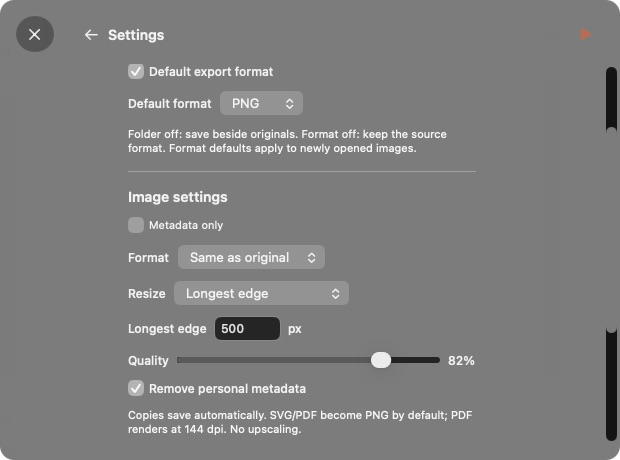
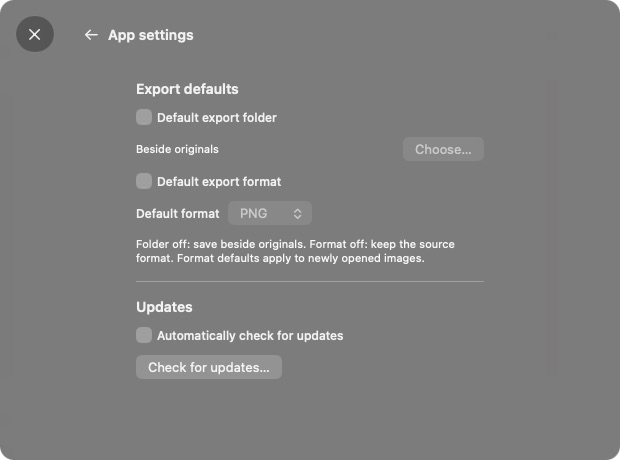
Separate app preferences from image settings popover

diff --git a/Sources/Dice/Views.swift b/Sources/Dice/Views.swift
@@ -9,6 +9,7 @@ struct DiceView: View {
     @ObservedObject var model: DiceModel
     let close: () -> Void
     var checkUpdates: () -> Void = {}
+    @State private var imageSettingsPresented = false
     @State private var metadata = false
     @State private var batch = false
     @State private var batchSearch = ""
@@ -33,8 +34,8 @@ struct DiceView: View {
     var body: some View {
         ZStack(alignment: .topTrailing) {
             if model.settingsPresented {
-                ScrollView { optionsPanel.frame(maxWidth: .infinity) }
-                    .padding(.top, 64).padding(.bottom, model.items.isEmpty ? 16 : 58)
+                ScrollView { appSettingsPanel.frame(maxWidth: .infinity) }
+                    .padding(.top, 64).padding(.bottom, 16)
             } else if batch {
                 BatchPane(model: model, query: $batchSearch) { id in model.selected = id; batch = false }
                     .padding(.top, 64).padding(.bottom, model.items.isEmpty ? 16 : 58)
@@ -57,7 +58,7 @@ struct DiceView: View {
                 }.frame(maxWidth: .infinity, maxHeight: .infinity).transition(.opacity)
             }
             toolbar.padding(DiceStyle.inset).padding(.leading, metadata || batch || model.settingsPresented ? 56 : 0)
-            if !model.items.isEmpty {
+            if !model.items.isEmpty && !model.settingsPresented {
                 VStack { Spacer(); HStack(spacing: 12) { footerSummary; Spacer(minLength: 12); pager }.padding(DiceStyle.inset) }
             }
         }
@@ -93,6 +94,7 @@ struct DiceView: View {
         }
         .animation(reduceMotion ? nil : .easeOut(duration: 0.2), value: targeted)
         .tint(accent)
+        .onChange(of: model.settingsPresented) { if model.settingsPresented { imageSettingsPresented = false } }
         .task(id: "\(model.selected?.uuidString ?? "")|\(previewKey ?? "")") { await loadPreview() }
         .alert("Dice couldn’t finish", isPresented: Binding(get: { model.alert != nil }, set: { if !$0 { model.alert = nil } })) { Button("OK") { model.alert = nil } } message: { Text(model.alert ?? "") }
     }
@@ -102,7 +104,7 @@ struct DiceView: View {
         HStack(spacing: 2) {
             if model.settingsPresented {
                 icon("arrow.left", "Back to image") { model.settingsPresented = false; metadata = false; batch = false }
-                Text("Settings").font(DiceStyle.heading)
+                Text("App settings").font(DiceStyle.heading)
                 Spacer()
             } else if batch {
                 icon("arrow.left", "Back to image") { batch = false }
@@ -118,9 +120,12 @@ struct DiceView: View {
                 icon("plus", "Add images") { model.chooseFiles() }.disabled(model.busy || model.importing)
                 if model.busy || model.importing { ProgressView().controlSize(.mini).padding(.horizontal, 8) }
                 icon("info", "View metadata") { flip() }.disabled(currentInfo == nil || model.items.isEmpty)
-                icon("slider.horizontal.3", "Conversion settings") { model.settingsPresented.toggle() }
+                icon("slider.horizontal.3", "Image settings") { imageSettingsPresented.toggle() }
+                    .popover(isPresented: $imageSettingsPresented, arrowEdge: .top) { imageSettingsPanel }
             }
-            icon("play.fill", "Start with current settings") { model.settingsPresented = false; model.process() }.foregroundStyle(accent).disabled(model.busy || model.importing || model.items.isEmpty)
+            if !model.settingsPresented {
+            icon("play.fill", "Start with current settings") { imageSettingsPresented = false; model.process() }.foregroundStyle(accent).disabled(model.busy || model.importing || model.items.isEmpty)
+            }
         }
         .buttonStyle(.plain)
         .padding(.horizontal, 4).padding(.vertical, 3)
@@ -154,7 +159,7 @@ struct DiceView: View {
         Button(action: action) { Image(systemName: symbol).font(DiceStyle.control).frame(width: DiceStyle.controlSize,height: DiceStyle.controlSize).contentShape(Rectangle()) }.help(label).accessibilityLabel(label)
     }
     func flip() { withAnimation(reduceMotion ? nil : .easeInOut(duration: 0.18)) { metadata.toggle() } }
-    var optionsPanel: some View {
+    var appSettingsPanel: some View {
         VStack(alignment: .leading, spacing: 12) {
             Text("Export defaults").font(DiceStyle.heading)
             Toggle("Default export folder", isOn: $model.preferences.useExportFolder)
@@ -169,6 +174,13 @@ struct DiceView: View {
             }.disabled(!model.preferences.useExportFormat)
             Text("Folder off: save beside originals. Format off: keep the source format. Format defaults apply to newly opened images.").font(DiceStyle.caption).foregroundStyle(.secondary).fixedSize(horizontal: false, vertical: true)
             Divider().padding(.vertical, 4)
+            Text("Updates").font(DiceStyle.heading)
+            Toggle("Automatically check for updates", isOn: $model.preferences.automaticallyCheckUpdates)
+            Button("Check for updates…") { checkUpdates() }
+        }.font(DiceStyle.label).padding(DiceStyle.inset).frame(width: 380).tint(accent)
+    }
+    var imageSettingsPanel: some View {
+        VStack(alignment: .leading, spacing: 12) {
             Text("Image settings").font(DiceStyle.heading)
             Toggle("Metadata only", isOn: $model.options.metadataOnly).font(DiceStyle.caption)
             if !model.options.metadataOnly {
@@ -183,18 +195,15 @@ struct DiceView: View {
             Toggle("Remove personal metadata", isOn: $model.options.stripMetadata).disabled(model.options.metadataOnly)
             Text(model.options.metadataOnly ? "Pixels stay unchanged. Colour and orientation are retained." : "Copies save automatically. SVG/PDF become PNG by default; PDF renders at 144 dpi. No upscaling.").font(DiceStyle.caption).foregroundStyle(.secondary).fixedSize(horizontal: false, vertical: true)
             HStack {
-                Button("Resize all") { model.settingsPresented = false; model.process(resizeOnly: true) }
+                Button("Resize all") { imageSettingsPresented = false; model.process(resizeOnly: true) }
                     .disabled(model.busy || model.importing || model.items.isEmpty || model.options.resize == .original)
                     .help("Change resolution only; preserve metadata and skip images already within the target size")
                 Spacer()
-                Button("Start") { model.settingsPresented = false; model.process() }.buttonStyle(.borderedProminent).disabled(model.busy || model.importing || model.items.isEmpty)
+                Button("Start") { imageSettingsPresented = false; model.process() }.buttonStyle(.borderedProminent).disabled(model.busy || model.importing || model.items.isEmpty)
             }
             Text("Resize all keeps the source format and metadata, skipping smaller images. Vector/RAW inputs become PNG copies.").font(DiceStyle.caption).foregroundStyle(.secondary).fixedSize(horizontal: false, vertical: true)
-            Divider().padding(.vertical, 4)
-            Text("Updates").font(DiceStyle.heading)
-            Toggle("Automatically check for updates", isOn: $model.preferences.automaticallyCheckUpdates)
-            Button("Check for updates…") { checkUpdates() }
-        }.font(DiceStyle.label).padding(DiceStyle.inset).frame(width: 380).tint(accent)
+        }.font(DiceStyle.label).padding(DiceStyle.inset).frame(width: 340).tint(accent)
+            .disabled(model.busy || model.importing)
     }
     func number(_ binding: Binding<Int>) -> some View { TextField("", value: binding, format: .number.grouping(.never)).textFieldStyle(.roundedBorder).frame(width: 65).accessibilityLabel("Resize value") }
     func loadPreview() async {

diff --git a/README.md b/README.md
@@ -24,7 +24,7 @@ Convert, resize and compress images in a small native window. Inspect all image 
 ![Image list](docs/batch.png)
 ![Settings](docs/settings.png)
 
-## v0.1.8 preview
+## v0.1.9 preview
 
 - Launch from Applications or right-click an image → Edit with Dice. The Dock icon appears while the editor is open and disappears when it closes.
 - Launch opens the drop surface without an automatic file picker. Drag-over lights the full window edge with a soft aurora glow.
@@ -36,7 +36,7 @@ Convert, resize and compress images in a small native window. Inspect all image 
 - Remove personal metadata by default. Metadata-only mode uses ExifTool without recompressing pixels, retaining colour profiles and orientation.
 - Compact summary: dimensions, size, format, camera, capture time and presence of GPS tags.
 - Extensive ExifTool tag viewer: search tags/values, filter by group, select a tag to read its full value, copy values or all tags, and export JSON.
-- Start processes and saves the batch in one action, beside originals or in your optional default export folder, with unique filenames. **⌘,** or the sliders opens Settings inside Dice. **Dice → Save Copies As…** can save another copy or recover output when the source folder is not writable. Originals are preserved. Metadata replaces the image in the same window; the back arrow returns to it.
+- Start processes and saves the batch in one action, beside originals or in your optional default export folder, with unique filenames. **⌘,** opens App settings inside Dice. The sliders opens a separate Image settings popover for the current batch. **Dice → Save Copies As…** can save another copy or recover output when the source folder is not writable. Originals are preserved. Metadata replaces the image in the same window; the back arrow returns to it.
 - App settings include independently enabled default export folder and format preferences, remembered across launches. Format defaults apply when opening a new batch; disabled means Same as original.
 - Check for Updates… downloads signed releases from the public binary-only repository. Include Preview Releases toggles the preview channel; automatic checks can be enabled in Settings and are off by default.
 - Last-used processing settings persist locally. Native horizontal, vertical and diagonal resize cursors indicate the window edges.
@@ -61,7 +61,7 @@ python3 scripts/install-quick-action.py
 
 **Edit with Dice** is a native app Service and appears directly in Finder’s context menu for images, SVGs and PDFs. Enable it in System Settings → Keyboard → Keyboard Shortcuts → Services if macOS leaves it disabled. The legacy-named installer registers the app Service and moves any Dice-generated Automator Quick Action into `build/backups`, avoiding duplicate entries. It refuses to replace an unrecognized workflow. It prefers `/Applications/Dice.app`; use `--app` to select another app location.
 
-The ZIP is written to `build/Dice-v0.1.8-apple-silicon.zip`. The signed application is `build/Dice.app` (also recorded in `build/app-path.txt`). Build outside cloud-synced folders, which can attach Finder metadata that breaks signing. The packaging script enforces an installed size below 40,000,000 bytes.
+The ZIP is written to `build/Dice-v0.1.9-apple-silicon.zip`. The signed application is `build/Dice.app` (also recorded in `build/app-path.txt`). Build outside cloud-synced folders, which can attach Finder metadata that breaks signing. The packaging script enforces an installed size below 40,000,000 bytes.
 
 See the [interface style guide](docs/STYLE_GUIDE.md) and [validation details](docs/VALIDATION.md).
 

diff --git a/docs/STYLE_GUIDE.md b/docs/STYLE_GUIDE.md
@@ -46,3 +46,5 @@ Search begins 12 points below the navigation header. The shared footer aligns im
 Settings is a view inside the same window, opened with the sliders or Command-comma. Its Back action returns to the image. Window edges use directional resize cursors, with diagonal corners. Paging reuses bounded decoded previews; metadata comes from the session cache.
 
 App Settings share the editor surface and use Export defaults, Image settings and Updates sections. Folder and format defaults each have an explicit enable switch; update checks are opt-in. Scroll settings inside the window, keeping Back and the close control visible.
+
+App settings (Command-comma) contain only export defaults and updates inside the window. The sliders opens Image settings in an anchored popover for current conversion, resize, compression and metadata choices.

diff --git a/docs/VALIDATION.md b/docs/VALIDATION.md
@@ -1,3 +1,9 @@
+# v0.1.9 settings correction — 2026-10-08
+
+Native review verified two separate views: Command-comma opens App settings inside Dice with export defaults and update controls only; the sliders opens an anchored Image settings popover containing conversion, resize, quality and metadata controls. Command-comma from the open popover dismisses it and opens App settings. The release build and deep strict signature verification pass. No processing changes were made; the 20 processing checks from 0.1.8 remain applicable.
+
+---
+
 # v0.1.8 validation — 2026-10-08
 
 The release build compiles, passes deep strict bundle signature verification, and stays below 40 MB: approximately 31.5 MB installed / 10.1 MB zipped. The bundled resvg 0.48.1 renderer runs only on demand; dependency license texts are shipped.
